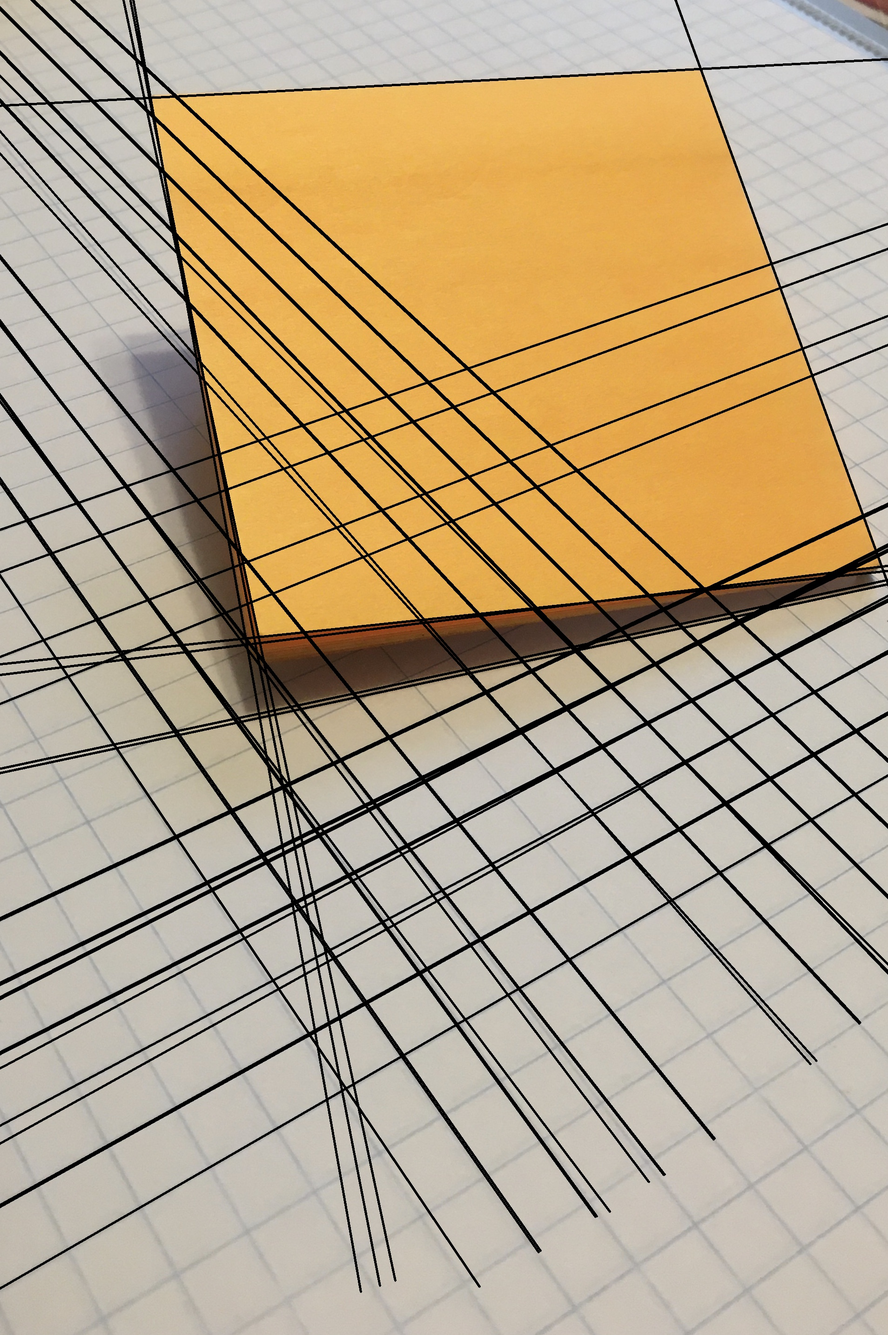
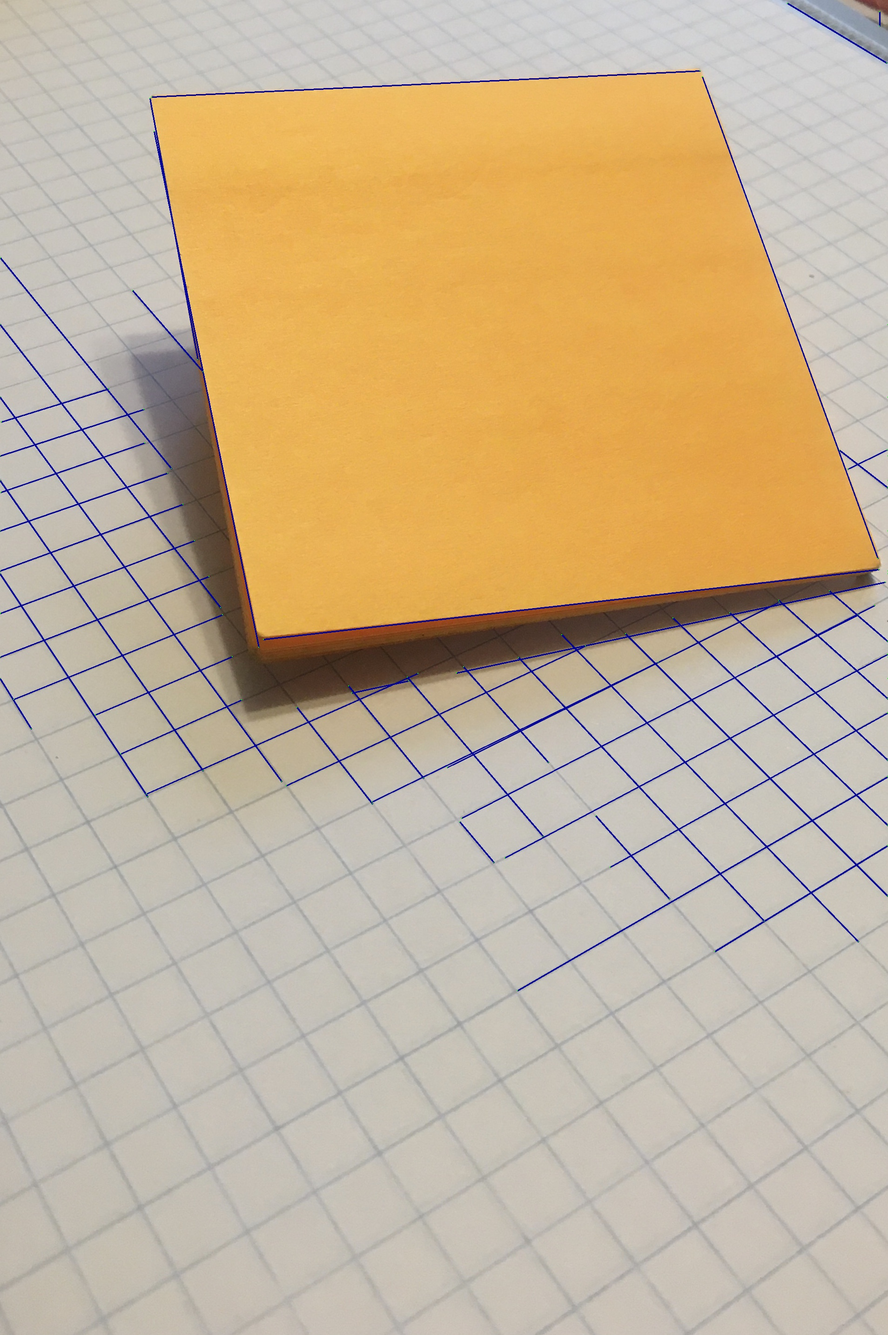
updated

diff --git a/web/app/edge.py b/web/app/edge.py
@@ -1,9 +1,10 @@
 import numpy as np
 import cv2
 import math
-from linear import find_lines, graphPoints
+from linear import Line,find_lines, graphPoints
 from PIL import Image, ImageDraw
 import time
+from bentley_ottmann.planar import segments_intersections
 
 def get_canny(image,sigma=0.33):
     v = np.median(image)
@@ -17,35 +18,65 @@ def logt(msg, prvt):
     print(msg +": %s s" % (curt- prvt))
     return curt
 
+def glines(img):
+
+    gray = img[:,:,0]
+    edges = cv2.Canny(gray,50,150,apertureSize = 3) 
+
+    rho = 0.5  # distance resolution
+    theta = np.pi / 180  # angular resolution
+    thres = 50  # minimum number of votes
+    min_length = 10  # minimum number of pixels
+    max_gap = 40  # maximum gap between line segments
+
+    hlines = cv2.HoughLinesP(edges, rho, theta, thres, np.array([]), min_length, max_gap)
+
+    lines = []
+    for hline in hlines:
+        for x1,y1,x2,y2 in hline:
+            l = Line()
+            if x1 < x2:
+                l.xmn = x1
+                l.xmx = x2
+                l.ymn = y1
+                l.ymx = y2
+            else:
+                l.xmn = x2
+                l.xmx = x1
+                l.ymn = y2
+                l.ymx = y1          
+            l.init()
+            found = False
+            for line in lines:
+                if l.aligned(line,22) and l.near(line,80):
+                    line.merge(l)
+                    found = True
+                    break
+            if not found:
+                lines.append(l)
+    return lines
+
 curt = time.time()
+tott = curt
 
 img = cv2.imread("note.jpg")
 curt = logt("read",curt)
 
-gray = img[:,:,0]
-curt = logt("gray",curt)
-
-edges = cv2.Canny(gray,50,150,apertureSize = 3) 
-curt = logt("edges",curt)
-
-lines = cv2.HoughLines(edges,1,np.pi/180, 250) 
+lines = glines(img)
 curt = logt("lines",curt)
 
-n,m = img.shape[:2]
-print(n,m)
-
+print(len(lines))
 im= img.copy()
+curt = logt("copy-image",curt)
+
 for line in lines:
-    for r,theta in line: 
-        a = np.cos(theta) 
-        b = np.sin(theta) 
-        x0 = a*r 
-        y0 = b*r 
-        x1 = int(x0 + n*(-b)) 
-        y1 = int(y0 + n*(a)) 
-        x2 = int(x0 - n*(-b)) 
-        y2 = int(y0 - n*(a)) 
-        cv2.line(im, (x1,y1), (x2,y2),(0,0,0),3) 
+    cv2.line(im,(int(line.xmn),int(line.ymn)),(int(line.xmx),int(line.ymx)),(155,0,0),2)
+
+for line in lines:
+    for i in range(-1,1):
+        for j in range(-1,1):
+            im[int(line.ymn) + i, int(line.xmn) + j] = [0, 255, 0]
+            im[int(line.ymx) + i, int(line.xmx) + j] = [0, 255, 0]
 
 curt = logt("graph",curt)
 
@@ -56,3 +87,4 @@ except IOError:
     print("cannot save", filename)
 
 curt = logt("save",curt)
+tott = logt("total",tott)

diff --git a/web/app/linear.py b/web/app/linear.py
@@ -26,6 +26,53 @@ class Line:
         d = math.sqrt(dx*dx+dy*dy)
         return d
     
+    def init(self):
+        dx = self.xmx-self.xmn
+        dy = self.ymx-self.ymn
+        a = 0.0
+        if dx!=0.0:
+            a = dy/dx
+        b = self.ymn-a*self.xmn
+        self.a = a
+        self.b = b
+        self.n = 2
+
+    def near(self, l, th):
+        xmn = (self.a*(l.ymn-self.b) + l.xmn)/(1+self.a*self.a)
+        xmx = (self.a*(l.ymx-self.b) + l.xmx)/(1+self.a*self.a)
+        ds = 0.0
+        if xmn > self.xmx:
+            dx = self.xmx - l.xmn
+            dy = self.ymx - l.ymn
+            ds = math.sqrt(dx*dx + dy*dy)
+        elif  xmx < self.xmn:
+            dx = self.xmn - l.xmx
+            dy = self.ymn - l.ymx
+            ds = math.sqrt(dx*dx + dy*dy)
+        if ds < th:
+            return True
+        return False
+
+    def aligned(self, l, th):
+        dn = self.distance(l.xmn, l.ymn)
+        dx = self.distance(l.xmx, l.ymx)
+        if dn<th and dx<th:
+            return True
+        return False
+
+    def merge(self, l):
+        self.a = (self.n * self.a + l.n * l.a)/(self.n + l.n)
+        self.b = (self.n * self.b + l.n * l.b)/(self.n + l.n)
+        self.n = self.n + l.n
+
+        if self.xmn > l.xmn:
+            self.xmn = l.xmn
+        if self.xmx < l.xmx:
+            self.xmx = l.xmx
+        
+        self.ymn = self.xmn * self.a + self.b
+        self.ymx = self.xmx * self.a + self.b
+
     def __str__(self):
        return  'a={:f} b={:f} c={:f} d={:f} n={} x=({:f},{:f}) y=({:f},{:f})'.format(self.a, self.b,self.c,self.d,self.n, self.xmn,self.xmx,self.ymn,self.ymx)
 
